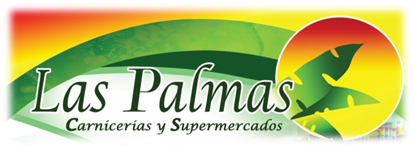
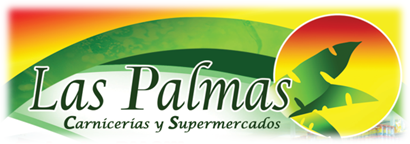
So much...
* Add and style 'Friends' section
* Flexbox all the 'Friends' section
* Optimize all images

diff --git a/public/stylesheets/main.css b/public/stylesheets/main.css
@@ -1,1 +1,1 @@
[2 lines of base64/hex data omitted]

diff --git a/public/dist/main.min.css b/public/dist/main.min.css
@@ -1,1 +1,1 @@
[2 lines of base64/hex data omitted]

diff --git a/public/sass/_custom_styles.scss b/public/sass/_custom_styles.scss
@@ -1,3 +1,5 @@
+@import "custom_styles_friends";
+
 h2 {
   text-transform: lowercase;
 
@@ -10,13 +12,12 @@ h2 {
 
 header {
   h1 {
-    text-align: left;
-    margin-bottom: 0;
+    text-align: center;
   }
 
   a {
-    background: url(../images/weblogo_2.png) 0 0 no-repeat;
-    background-size: 110px 43px;
+    background: url(../images/logo.png) 0 0 no-repeat;
+    background-size: contain;
     display: inline-block;
     color: transparent !important;
     position: relative;
@@ -156,6 +157,10 @@ header {
     padding: 0 0.5em;
   }
 
+  a {
+    border: none;
+  }
+
   img {
     @include rounded-bottom-shadow;
   }
@@ -167,4 +172,8 @@ header {
   color: white;
   padding: 1em;
   margin: 0 1em 1em;
+}
+
+.logo {
+  border: none !important;
 }

diff --git a/public/sass/_custom_styles_friends.scss b/public/sass/_custom_styles_friends.scss
@@ -1,0 +1,50 @@
+#friends-header {
+  text-align: center;
+}
+
+.friends-content {
+  @include transparent-white-bg;
+  @include rounded-bottom-shadow;
+  padding: 1em;
+}
+
+.wrap-row-container {
+  display: flex;
+  flex-wrap: wrap;
+  margin-bottom: 1em;
+
+  @media #{$tablet-media} {
+    margin-bottom: 0;
+  }
+
+  .flex-item {
+    width: 50%;
+    text-align: center;
+
+    @media #{$tablet-media} {
+      width: 100%;
+      margin-bottom: 2em;
+    }
+
+    span {
+      display: block;
+      font-family: helvetica;
+      font-size: 0.9rem;
+
+      &.title > a {
+        font-weight: bold;
+      }
+    }
+  }
+
+  img {
+    max-height: 130px;
+  }
+
+  .linked-thumb {
+    > a {
+      border: none;
+    }
+
+  }
+}

diff --git a/public/sass/_nav.scss b/public/sass/_nav.scss
@@ -1,9 +1,10 @@
-$nav-list: 'menu', 'catering', 'friends', 'about', 'contact';
+$nav-list: 'index', 'menu', 'catering', 'about', 'contact';
 nav {
   @each $nav-section in $nav-list {
     .#{$nav-section} .#{$nav-section} .nav-link {
       background-color: rgba($mole, 0.6);
       color: white;
+      text-shadow: 0 2px 1px rgba(black, 0.6);
     }
   }
 
@@ -40,17 +41,11 @@ nav {
 
   .nav-link {
     color: rgba($mole, 0.6);
+    border: none;
     font-size: 1.05rem;
     display: block;
     cursor: pointer;
     text-decoration: none;
     padding: 0.25em 1.5em;
-
-    &.logo {
-      position: absolute;
-      top: 1em;
-      left: 2em;
-      width: 150px;
-    }
   }
 }

diff --git a/public/sass/_common.scss b/public/sass/_common.scss
@@ -26,9 +26,9 @@ main {
 blockquote {
   @include transition(0.3s);
   @include rounded-bottom-shadow;
+  @include transparent-white-bg;
   padding: 1.5em 2em 1em 3.5em;
   line-height: 1.4em;
-  background: rgba(255, 255, 255, 0.7);
   margin: 0 1em 2em;
   background-image: url(../images/openquote.gif);
   background-position: 1% 5%;

diff --git a/public/sass/_placeholders.scss b/public/sass/_placeholders.scss
@@ -1,7 +1,9 @@
 %links {
   &:link,
   &:visited {
-    color: white;
+    color: $green;
+    text-decoration: none;
+    border-bottom: 1px dashed $green;
   }
   &:focus,
   &:hover,

diff --git a/public/sass/_menu.scss b/public/sass/_menu.scss
@@ -1,6 +1,6 @@
 .food-menu {
   @include rounded-bottom-shadow;
-  background: rgba(255, 255, 255, 0.7);
+  @include transparent-white-bg;
   padding: 1em;
   margin-bottom: 1em;
 }

diff --git a/public/sass/_mixins.scss b/public/sass/_mixins.scss
@@ -304,3 +304,7 @@
 @mixin dashed-bottom-border {
   border-bottom: 1px dashed gray;
 }
+
+@mixin transparent-white-bg($val: 0.7) {
+  background: rgba(255, 255, 255, $val);
+}

diff --git a/public/sass/_variables.scss b/public/sass/_variables.scss
@@ -6,6 +6,7 @@ $green: #78DFB8;
 $blue: #094983;
 $orange: #ff7639;
 $mole: #662e29;
+$green: #1b633a;
 $antique-white: #FAEBD7;
 $input-focus-color: gray;
 

diff --git a/public/sass/_footer.scss b/public/sass/_footer.scss
@@ -18,7 +18,7 @@ footer {
   }
 
   p {
-    font-size: 0.8rem;
+    font-size: 0.9rem;
     margin: 0;
   }
 }
